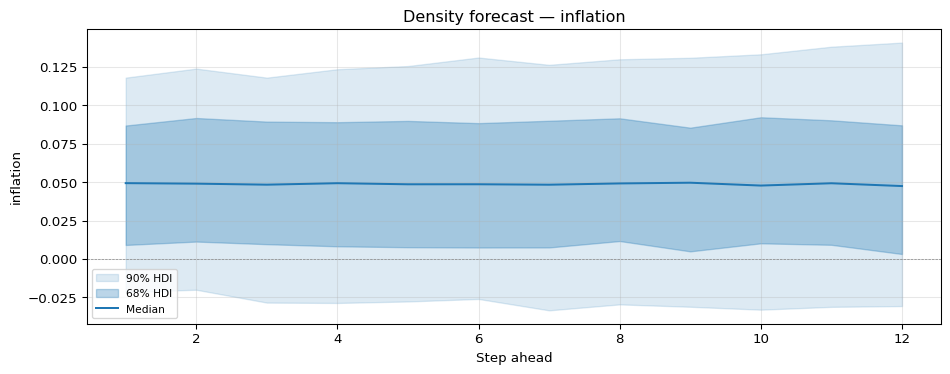
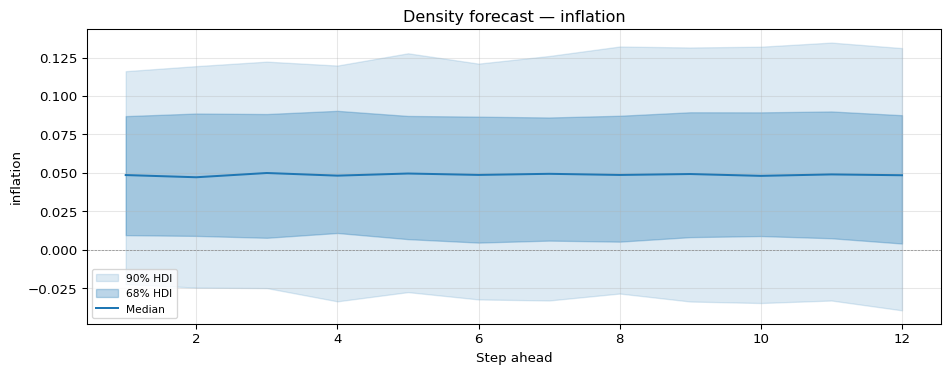
docs: add multivariate VAR(volatility="sv") and at= sections (closes #64)
Extends stochastic-volatility.qmd with two short how-to sections inserted
before References:

- 'Stochastic volatility inside a VAR' — reuses the monetary_policy.csv
  panel already loaded above; fits VAR(lags=2, volatility="sv") and shows
  that FittedVAR.sigma() now returns a per-period (T, n, n) covariance
  path plus where the per-variable log-vol h lives in the posterior.
- 'Time-varying impulse responses with at=' — demonstrates at="last",
  at=t (resolving from a calendar date via the lag-trimmed index),
  and at="all" (with the 6-D dims/shape printed). Notes the
  constant-volatility no-op semantics.

Imports for VAR/VARData/Cholesky are inline in the new cell to avoid
renumbering existing labelled-or-anonymous figure cells.

diff --git a/docs/tutorials/stochastic-volatility.md b/docs/tutorials/stochastic-volatility.md
@@ -95,41 +95,21 @@ The rolling standard deviation makes the regime shift obvious. Volatility is ele
 
 ## Model
 
-The random-walk stochastic volatility model is a two-equation state-space system. For the observed series $y_t$,
-
-$$y_t = \mu + u_t, \qquad u_t \sim N\!\left(0,\, \exp(h_t)\right),$$
-
- and for the latent log-volatility $h_t$,
-
-$$h_t = h_{t-1} + \sigma_\eta\, \eta_t, \qquad \eta_t \sim N(0, 1).$$
-
- Here $\mu$ is the unconditional mean of the series, $h_t$ is the log of the conditional variance at date $t$, and $\sigma_\eta$ controls how fast log-volatility can move from one period to the next. The conditional standard deviation at $t$ is $\exp(h_t / 2)$, so a one-unit increase in $h_t$ multiplies the conditional SD by $e^{1/2} \approx 1.65$.
+The random-walk stochastic volatility model is a two-equation state-space system. For the observed series $y_t$, $$y_t = \mu + u_t, \qquad u_t \sim N\!\left(0,\, \exp(h_t)\right),$$ and for the latent log-volatility $h_t$, $$h_t = h_{t-1} + \sigma_\eta\, \eta_t, \qquad \eta_t \sim N(0, 1).$$ Here $\mu$ is the unconditional mean of the series, $h_t$ is the log of the conditional variance at date $t$, and $\sigma_\eta$ controls how fast log-volatility can move from one period to the next. The conditional standard deviation at $t$ is $\exp(h_t / 2)$, so a one-unit increase in $h_t$ multiplies the conditional SD by $e^{1/2} \approx 1.65$.
 
 Modelling log-volatility rather than the variance or the SD directly has two practical advantages. First, $\exp(h_t)$ is strictly positive for any real-valued $h_t$, so the parameterisation cannot wander into infeasible regions. Second, movements in $h_t$ are symmetric: a change of $+0.5$ and a change of $-0.5$ correspond to multiplicative moves of the same magnitude in the SD, which makes the random-walk innovation assumption more plausible.
 
 ### State-space structure and what it implies
 
-The two equations define a **linear Gaussian state-space system** in which the latent state controls the observation *variance* rather than the *mean*. Conditional on the full path $h_{1:T}$ the likelihood factorises,
-
-$$p(y_{1:T} \mid h_{1:T}, \mu) \;=\; \prod_{t=1}^{T} N\!\left(y_t;\, \mu,\, \exp(h_t)\right),$$
-
- and each factor is cheap. The likelihood of the parameters $(\mu, \sigma_\eta)$ *alone* requires integrating the latent path out,
-
-$$p(y_{1:T} \mid \mu, \sigma_\eta) \;=\; \int p(y_{1:T} \mid h_{1:T}, \mu)\, p(h_{1:T} \mid \sigma_\eta)\, dh_{1:T}.$$
-
- This $T$-dimensional integral has no closed form, which is why SV models are fit with MCMC or particle methods rather than direct maximum likelihood. MCMC sidesteps the integral by sampling the joint posterior $p(\mu, \sigma_\eta, h_{1:T} \mid y_{1:T})$ and reading off any marginal we need from the draws.
+The two equations define a **linear Gaussian state-space system** in which the latent state controls the observation *variance* rather than the *mean*. Conditional on the full path $h_{1:T}$ the likelihood factorises, $$p(y_{1:T} \mid h_{1:T}, \mu) \;=\; \prod_{t=1}^{T} N\!\left(y_t;\, \mu,\, \exp(h_t)\right),$$ and each factor is cheap. The likelihood of the parameters $(\mu, \sigma_\eta)$ *alone* requires integrating the latent path out, $$p(y_{1:T} \mid \mu, \sigma_\eta) \;=\; \int p(y_{1:T} \mid h_{1:T}, \mu)\, p(h_{1:T} \mid \sigma_\eta)\, dh_{1:T}.$$ This $T$-dimensional integral has no closed form, which is why SV models are fit with MCMC or particle methods rather than direct maximum likelihood. MCMC sidesteps the integral by sampling the joint posterior $p(\mu, \sigma_\eta, h_{1:T} \mid y_{1:T})$ and reading off any marginal we need from the draws.
 
 Marginally over $h_t$, the observation is a **scale mixture of normals**: $y_t = \mu + \exp(h_t / 2)\,\varepsilon_t$ with $\varepsilon_t \sim N(0, 1)$ independent of $h_t$. Three consequences follow that a fixed-variance model cannot reproduce. The marginal distribution of $y_t$ has heavier tails than a Gaussian. Squared residuals $(y_t - \mu)^2$ are positively autocorrelated — volatility clustering. And a realised large $|y_t|$ is evidence of a large $h_t$, which raises the posterior probability that $|y_{t+1}|$ is also large. These are exactly the stylised facts that motivate the model for macro and financial series.
 
 It is worth contrasting this setup with the GARCH family, which targets the same stylised facts by a different route. In GARCH, the conditional variance is a deterministic function of past observations, $h_t = \omega + \alpha\,(y_{t-1} - \mu)^2 + \beta\,h_{t-1}$, so given $(y_{1:t-1}, \omega, \alpha, \beta)$ the variance at $t$ is a known number and the likelihood factorises without an integral. The SV variance has its *own* innovation $\eta_t$ that is not observed, which makes it a random variable even after conditioning on the full history. That extra source of randomness is what lets SV allow volatility surprises — moments when the conditional variance jumps in a way not foreseeable from past squared returns — and it is also the reason the SV likelihood is intractable in closed form.
 
-The random-walk specification for $h_t$ is non-stationary. Conditional on $h_0$,
+The random-walk specification for $h_t$ is non-stationary. Conditional on $h_0$, $$h_t \mid h_0, \sigma_\eta \;\sim\; N\!\left(h_0,\, t\,\sigma_\eta^2\right),$$ so the unconditional variance of log-volatility grows linearly in $t$. That is the appropriate prior when there is no reason to anchor volatility to a particular level and we want the data to decide how far it drifts. The AR(1) variant introduced later replaces this with a mean-reverting state equation and restores stationarity.
 
-$$h_t \mid h_0, \sigma_\eta \;\sim\; N\!\left(h_0,\, t\,\sigma_\eta^2\right),$$
-
- so the unconditional variance of log-volatility grows linearly in $t$. That is the appropriate prior when there is no reason to anchor volatility to a particular level and we want the data to decide how far it drifts. The AR(1) variant introduced later replaces this with a mean-reverting state equation and restores stationarity.
-
-!!! note "NUTS on the SV likelihood"
+!!! note “NUTS on the SV likelihood”
 
     We sample the SV model with PyMC's NUTS using a non-centered reparameterisation of the latent log-volatility path. Non-centering lets Hamiltonian Monte Carlo traverse the funnel geometry induced by $\sigma_\eta$ without the auxiliary-mixture approximation introduced by Kim, Shephard and Chib (1998) to make the likelihood conditionally Gaussian.
 
@@ -245,7 +225,7 @@ fitted = StochasticVolatility(dynamics="random_walk").fit(data, sampler=sampler)
         Finished Chains:
         <span id="active-chains">4</span>
     </p>
-    <p>Sampling for 25 seconds</p>
+    <p>Sampling for 27 seconds</p>
     <p>
         Estimated Time to Completion:
         <span id="eta">now</span>
@@ -392,11 +372,7 @@ The gap between the two estimators is most striking in the 1970s and early 1980s
 
 ## AR(1) dynamics for log-volatility
 
-The random-walk specification places no anchor on the level of log-volatility: if $\sigma_\eta$ is small the path drifts slowly, if it is large the path wanders. An AR(1) alternative adds explicit mean reversion,
-
-$$h_t = \alpha + \phi\,(h_{t-1} - \alpha) + \sigma_\eta\, \eta_t,$$
-
- with $|\phi| < 1$. This lets the data speak to whether log-volatility tends to return to a long-run level $\alpha$ and, if so, how fast. A persistence parameter $\phi$ posterior concentrated near 1 is consistent with the random-walk approximation being adequate; values meaningfully below 1 indicate stronger mean reversion than a pure random walk allows.
+The random-walk specification places no anchor on the level of log-volatility: if $\sigma_\eta$ is small the path drifts slowly, if it is large the path wanders. An AR(1) alternative adds explicit mean reversion, $$h_t = \alpha + \phi\,(h_{t-1} - \alpha) + \sigma_\eta\, \eta_t,$$ with $|\phi| < 1$. This lets the data speak to whether log-volatility tends to return to a long-run level $\alpha$ and, if so, how fast. A persistence parameter $\phi$ posterior concentrated near 1 is consistent with the random-walk approximation being adequate; values meaningfully below 1 indicate stronger mean reversion than a pure random walk allows.
 
 Instead of the `"ar1"` shorthand used above, we pass an explicit `AR1()` dynamics object. Both forms are equivalent; the object form is the extension point if you want to add a new dynamics (e.g. SVt or SV with leverage) without editing the library — implement the `SVDynamics` protocol and pass an instance here.
 
@@ -599,6 +575,240 @@ fig_fcst.tight_layout()
 ![12-step density forecast from the random-walk SV model.](stochastic-volatility_files/figure-commonmark/sv-forecast-output-1.png)
 
 In principle the fan should widen with horizon: $\mathrm{Var}(h_{T+h}\mid h_T,\sigma_\eta) = h\,\sigma_\eta^2$ grows linearly in $h$, and $\mathrm{Var}(y_{T+h})$ inherits an $\exp(0.5\, h\, \sigma_\eta^2)$ factor on top of $\exp(h_T)$. In practice the visible widening here is modest: the posterior $\sigma_\eta$ for monthly CPI inflation is small, so over twelve steps the forward-dispersion factor on the conditional SD is only a few percent, and the bulk of the fan width comes from posterior uncertainty in $h_T$ itself rather than from forward dispersion. Pushing the horizon out further, or using a series with a larger $\sigma_\eta$, makes the geometric growth easier to see.
+
+## Stochastic volatility inside a VAR
+
+The same `monetary_policy.csv` we loaded earlier already carries a multivariate macro panel (`output`, `prices`, `rate`). To swap the homoscedastic VAR for one with multivariate Clark-style stochastic volatility, pass `volatility="sv"` (or a `StochasticVolatility(...)` instance) when constructing the spec:
+
+``` python
+from impulso import VAR, VARData
+from impulso.identification import Cholesky
+
+var_data = VARData.from_df(df, endog=["output", "prices", "rate"])
+
+if ci:
+    sampler_var = NUTSSampler(draws=10, tune=50, chains=1, cores=1, random_seed=7)
+else:
+    sampler_var = NUTSSampler(
+        draws=500,
+        tune=1000,
+        chains=2,
+        cores=1,  # cores=1 avoids the macOS multiprocessing segfault
+        target_accept=0.95,
+        random_seed=7,
+    )
+
+fitted_var = VAR(lags=2, volatility="sv").fit(var_data, sampler=sampler_var)
+```
+
+<style>
+    :root {
+        --column-width-1: 40%; /* Progress column width */
+        --column-width-2: 15%; /* Chain column width */
+        --column-width-3: 15%; /* Divergences column width */
+        --column-width-4: 15%; /* Step Size column width */
+        --column-width-5: 15%; /* Gradients/Draw column width */
+    }
+&#10;    .nutpie {
+        max-width: 800px;
+        margin: 10px auto;
+        font-family: 'Segoe UI', Tahoma, Geneva, Verdana, sans-serif;
+        //color: #333;
+        //background-color: #fff;
+        padding: 10px;
+        box-shadow: 0 4px 6px rgba(0,0,0,0.1);
+        border-radius: 8px;
+        font-size: 14px; /* Smaller font size for a more compact look */
+    }
+    .nutpie table {
+        width: 100%;
+        border-collapse: collapse; /* Remove any extra space between borders */
+    }
+    .nutpie th, .nutpie td {
+        padding: 8px 10px; /* Reduce padding to make table more compact */
+        text-align: left;
+        border-bottom: 1px solid #888;
+    }
+    .nutpie th {
+        //background-color: #f0f0f0;
+    }
+&#10;    .nutpie th:nth-child(1) { width: var(--column-width-1); }
+    .nutpie th:nth-child(2) { width: var(--column-width-2); }
+    .nutpie th:nth-child(3) { width: var(--column-width-3); }
+    .nutpie th:nth-child(4) { width: var(--column-width-4); }
+    .nutpie th:nth-child(5) { width: var(--column-width-5); }
+&#10;    .nutpie progress {
+        width: 100%;
+        height: 15px; /* Smaller progress bars */
+        border-radius: 5px;
+    }
+    progress::-webkit-progress-bar {
+        background-color: #eee;
+        border-radius: 5px;
+    }
+    progress::-webkit-progress-value {
+        background-color: #5cb85c;
+        border-radius: 5px;
+    }
+    progress::-moz-progress-bar {
+        background-color: #5cb85c;
+        border-radius: 5px;
+    }
+    .nutpie .progress-cell {
+        width: 100%;
+    }
+&#10;    .nutpie p strong { font-size: 16px; font-weight: bold; }
+&#10;    @media (prefers-color-scheme: dark) {
+        .nutpie {
+            //color: #ddd;
+            //background-color: #1e1e1e;
+            box-shadow: 0 4px 6px rgba(0,0,0,0.2);
+        }
+        .nutpie table, .nutpie th, .nutpie td {
+            border-color: #555;
+            color: #ccc;
+        }
+        .nutpie th {
+            background-color: #2a2a2a;
+        }
+        .nutpie progress::-webkit-progress-bar {
+            background-color: #444;
+        }
+        .nutpie progress::-webkit-progress-value {
+            background-color: #3178c6;
+        }
+        .nutpie progress::-moz-progress-bar {
+            background-color: #3178c6;
+        }
+    }
+</style>
+
+<div class="nutpie">
+    <p><strong>Sampler Progress</strong></p>
+    <p>Total Chains: <span id="total-chains">2</span></p>
+    <p>Active Chains: <span id="active-chains">0</span></p>
+    <p>
+        Finished Chains:
+        <span id="active-chains">2</span>
+    </p>
+    <p>Sampling for 5 minutes</p>
+    <p>
+        Estimated Time to Completion:
+        <span id="eta">now</span>
+    </p>
+&#10;    <progress
+        id="total-progress-bar"
+        max="3000"
+        value="3000">
+    </progress>
+    <table>
+        <thead>
+            <tr>
+                <th>Progress</th>
+                <th>Draws</th>
+                <th>Divergences</th>
+                <th>Step Size</th>
+                <th>Gradients/Draw</th>
+            </tr>
+        </thead>
+        <tbody id="chain-details">
+            &#10;                <tr>
+                    <td class="progress-cell">
+                        <progress
+                            max="1500"
+                            value="1500">
+                        </progress>
+                    </td>
+                    <td>1500</td>
+                    <td>241</td>
+                    <td>0.01</td>
+                    <td>457</td>
+                </tr>
+            &#10;                <tr>
+                    <td class="progress-cell">
+                        <progress
+                            max="1500"
+                            value="1500">
+                        </progress>
+                    </td>
+                    <td>1500</td>
+                    <td>183</td>
+                    <td>0.01</td>
+                    <td>174</td>
+                </tr>
+            &#10;            </tr>
+        </tbody>
+    </table>
+</div>
+
+For a constant-volatility VAR, `FittedVAR.sigma()` returns a single covariance matrix per posterior draw, shape `(chains, draws, n_vars, n_vars)`. With `volatility="sv"` it returns a full per-period path:
+
+``` python
+sigma_path = fitted_var.sigma()
+print(sigma_path.shape)  # (chains, draws, T_eff, n_vars, n_vars)
+```
+
+    (2, 500, 732, 3, 3)
+
+The per-variable log-volatility paths live in the posterior under the stacked `h` deterministic, shape `(chains, draws, T_eff, n_vars)`:
+
+``` python
+h = fitted_var.idata.posterior["h"]
+print(h.dims, h.shape)
+```
+
+    ('chain', 'draw', 'h_dim_0', 'h_dim_1') (2, 500, 732, 3)
+
+## Time-varying impulse responses with `at=`
+
+When the volatility is time-varying, the structural impact matrix is too. The `at=` parameter on `impulse_response`, `forecast_error_variance_decomposition`, and `historical_decomposition` selects which date’s Cholesky factor (and hence which structural impact matrix) the computation uses:
+
+- `at="last"` — most recent in-sample period (the default when the volatility is stochastic)
+- `at=t` — a specific integer index into the lag-trimmed sample
+- `at="all"` — every in-sample period; the result carries a `time` dim
+
+For constant-volatility VARs, `at=` is a no-op (the same `L` applies at every date), so existing tutorials that omit it keep working unchanged.
+
+``` python
+identified = fitted_var.set_identification_strategy(
+    Cholesky(ordering=["output", "prices", "rate"])
+)
+```
+
+A single date — the most recent in-sample period:
+
+``` python
+irf_latest = identified.impulse_response(horizon=12, at="last")
+irf_latest_arr = irf_latest.idata.posterior_predictive["irf"]
+print(irf_latest_arr.shape)  # (chains, draws, horizon+1, n_vars, n_vars)
+```
+
+    (2, 500, 13, 3, 3)
+
+A specific historical date. The integer index is into the lag-trimmed sample, so we offset by `n_lags` when resolving from the calendar index:
+
+``` python
+trimmed_index = var_data.index[fitted_var.n_lags :]
+t_1982 = trimmed_index.get_loc("1982-01-01")
+irf_1982 = identified.impulse_response(horizon=12, at=t_1982)
+print(irf_1982.idata.posterior_predictive["irf"].shape)
+```
+
+    (2, 500, 13, 3, 3)
+
+Every in-sample date in one call. The result is a six-dimensional array — `(chains, draws, time, horizon+1, n_vars, n_vars)` — that you usually post-process directly via `irf_all.idata` rather than `.median()` / `.plot()`, which intentionally raise for the time-aware result:
+
+``` python
+irf_all = identified.impulse_response(horizon=12, at="all")
+irf_all_arr = irf_all.idata.posterior_predictive["irf"]
+print(irf_all_arr.shape)
+print(irf_all_arr.dims)
+```
+
+    (2, 500, 732, 13, 3, 3)
+    ('chain', 'draw', 'time', 'horizon', 'response', 'shock')
+
+The same `at=` argument is accepted by `forecast_error_variance_decomposition` and `historical_decomposition` with the same semantics.
 
 ## References
 